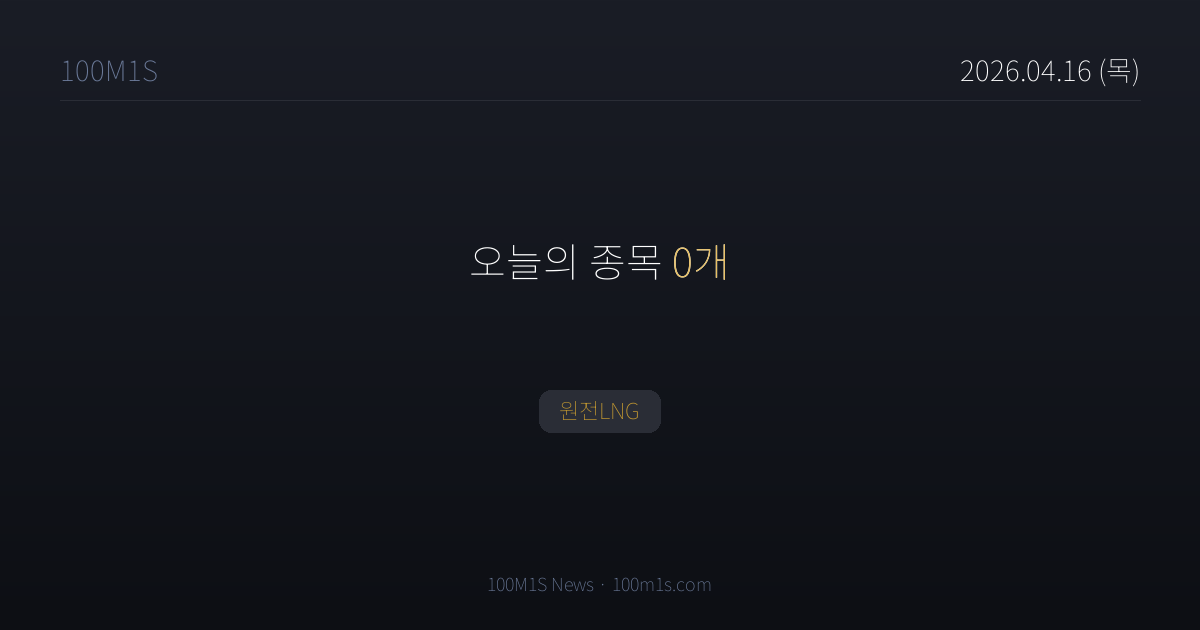
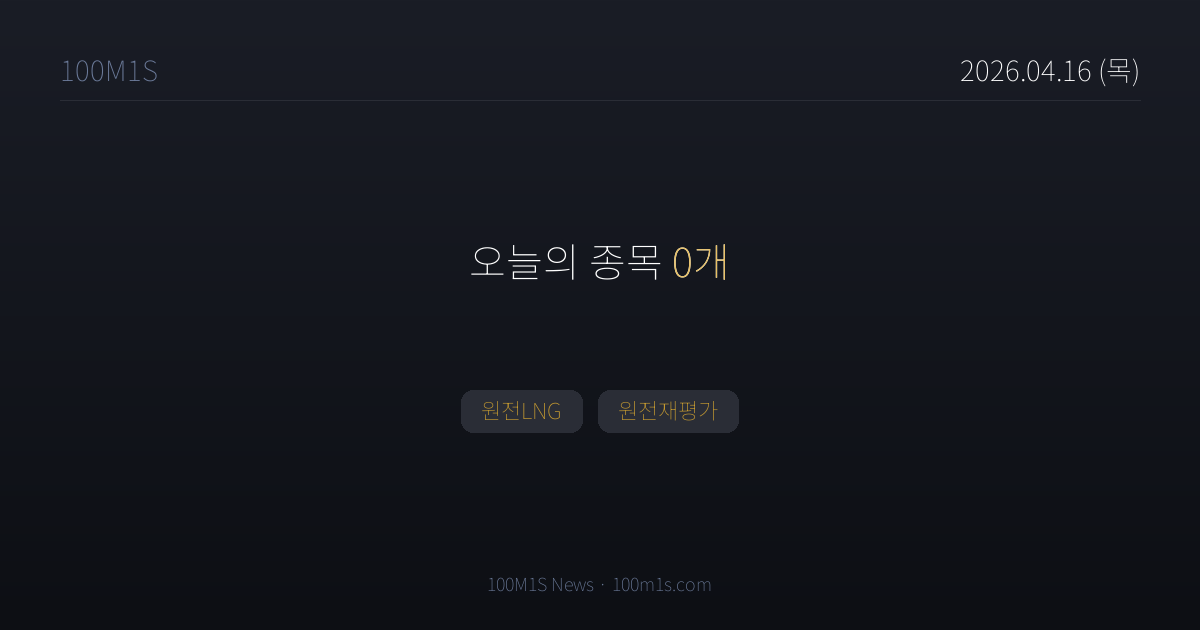
chore(news): 2026-04-16T00:37 pipeline

Changed region(s): [[0.37, 0.6032, 0.6167, 0.6937]]

diff --git a/news/stock/2026-04-16.html b/news/stock/2026-04-16.html
@@ -4,7 +4,7 @@
 <meta charset="UTF-8">
 <title>4월 16일 (목) 뉴스 — 100M1S</title>
 <meta property="og:title" content="4월 16일 (목) · 종목 0개">
-<meta property="og:description" content="원전LNG">
+<meta property="og:description" content="원전LNG, 원전재평가">
 <meta property="og:image" content="https://100m1s.com/og/news/stock/2026-04-16.png">
 <meta property="og:image:width" content="1200">
 <meta property="og:image:height" content="630">
